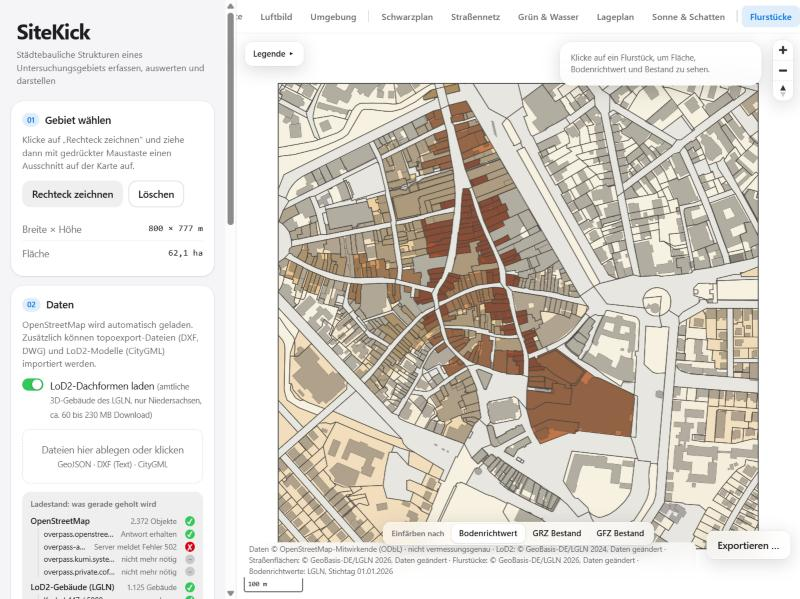
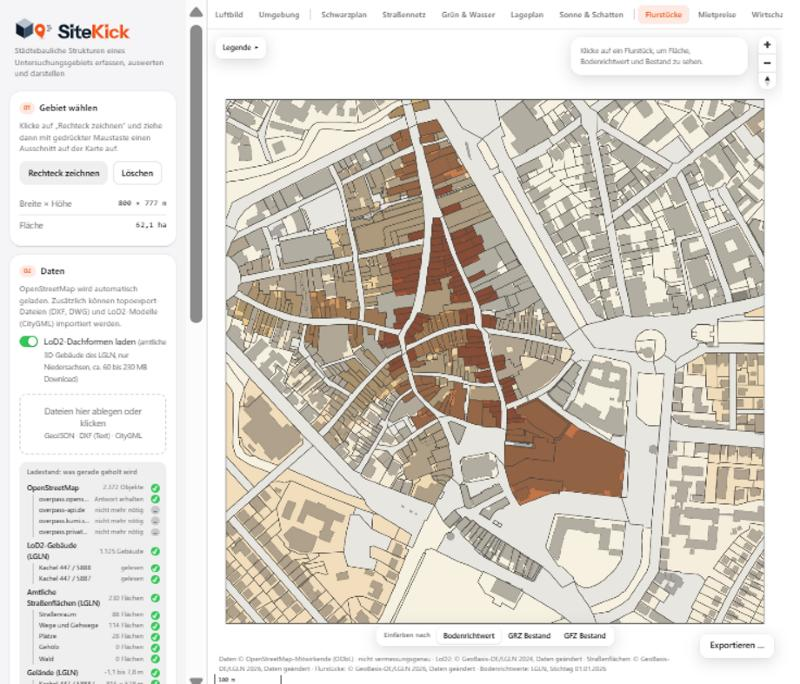
README fertig: Namen, Dozent*innen, Stand, KI-Nachweis; alle Screenshots neu
- Platzhalter in der README ausgefüllt (Projekt von, Dozent*innen, Stand, Hinweis zur
  Nutzung von KI als Tabelle)
- alle Screenshots der Oberfläche neu aufgenommen (Logo, orange Akzent, Hell und Dunkel)
- PLAN.md aktualisiert

diff --git a/PLAN.md b/PLAN.md
@@ -906,9 +906,10 @@ Rhythmus pro Feature: **neue Sitzung → ein Feature bauen → testen und speich
   **Grenzen:** Kreise sind Luftlinie; Denkmal nur aus OSM; DXF-Import ohne Blöcke, Texte, Schraffuren; GeoJSON/DXF-Import nicht zwischen Sitzungen gemerkt.
 - [x] **Oberfläche im Apple-Stil** (`style.css`, kleine Änderung in `app.js`): runde Ecken, Systemschrift, Karten in der Seitenleiste, milchig-durchsichtige Fenster über der Karte, Ein-Aus-Schalter statt Häkchen, Umschalter als Segmente, weiche Bewegungen (Fenster tauchen auf, Schnitt-Blatt kommt von unten, Export-Fenster blendet ein und aus, Druck-Rückmeldung sofort beim Drücken). Akzentfarbe jetzt iOS-Blau (Karte, Auswahl, Kreise). **Dunkelmodus** automatisch nach Systemeinstellung (nur Bedienflächen; Karte, Pläne, Zeichenblätter und Exporte bleiben hell). Berücksichtigt „weniger Bewegung“, „weniger Transparenz“, „mehr Kontrast“. **Getestet:** Hell und Dunkel, Reiter Karte, Lageplan, Sonne, Schnitt, Kennzahlen, Export-Fenster auf, zu. **Nicht getestet:** Handy, Firefox, Safari, Reiter 3D und Mietpreise in Dunkel.
 - [x] **Umbenannt in „SiteKick“** (früher Arbeitstitel „Ortsanalyse“): Seitentitel, Überschrift, Dateiköpfe, Export-Dateinamen (`SiteKick-…`), README, Startdatei und Server-Meldung. Gespeicherte Daten im Browser (Schlüssel `ortsanalyse-…`) und der Name des GitHub-Repositorys (`Mapping-Tool-Architektur`) bleiben unverändert, damit nichts verloren geht und die Live-Adresse gleich bleibt.
-- [x] **Logo eingebaut** (Logo-Paket „Seite an Seite“, Ordner `logo/`): Seitenleiste (Farbe im Hellmodus, Negativ im Dunkelmodus), Browser-Symbol, Handy-Symbol und `manifest.webmanifest` (als App installierbar), Vorschau beim Teilen (`og:`-Angaben), Plankopf aller Export-Blätter (schwarze Version rechts unten), Kennzahlen-PDF, 3D-Bild und README-Kopf. Regeln des Logo-Pakets (Schutzraum, Mindestgröße 120 px, nicht verzerren oder umfärben) stehen in `logo/LIESMICH.txt`. Die Akzentfarbe der Oberfläche ist jetzt das Signalrot-Orange des Logos (#F2541B, im Dunkelmodus #FF6A33; Variable `--accent` in `style.css`, ebenso Gebietsrahmen, Auswahl, Gehzeit-Kreise und Schnittlinie auf der Karte). **Offen:** Die README-Screenshots der Oberfläche zeigen noch die frühere Text-Überschrift und das alte Blau.
+- [x] **Logo eingebaut** (Logo-Paket „Seite an Seite“, Ordner `logo/`): Seitenleiste (Farbe im Hellmodus, Negativ im Dunkelmodus), Browser-Symbol, Handy-Symbol und `manifest.webmanifest` (als App installierbar), Vorschau beim Teilen (`og:`-Angaben), Plankopf aller Export-Blätter (schwarze Version rechts unten), Kennzahlen-PDF, 3D-Bild und README-Kopf. Regeln des Logo-Pakets (Schutzraum, Mindestgröße 120 px, nicht verzerren oder umfärben) stehen in `logo/LIESMICH.txt`. Die Akzentfarbe der Oberfläche ist jetzt das Signalrot-Orange des Logos (#F2541B, im Dunkelmodus #FF6A33; Variable `--accent` in `style.css`, ebenso Gebietsrahmen, Auswahl, Gehzeit-Kreise und Schnittlinie auf der Karte). Die README-Screenshots sind am 18.11.2026 neu aufgenommen (Logo, orange Akzent).
 - [x] **Sammel-Export** (letzter Reiter, `sammelexport.js`): mehrere Pläne und Formate (PDF, SVG, PNG, DXF Allplan/ArchiCAD, GeoJSON, CSV) wählen, gemeinsame Blatt-Einstellungen und **gemeinsamer Ausschnitt** (per Maus in einer Vorschau, gilt in Metern für alle Pläne), ein Klick lädt alles als **ZIP** (Ordner je Plan plus `Hinweise-und-Quellen.txt`, JSZip 3.10.1). Nicht bereite Reiter (Sonne, Schnitt, 3D) sind ausgegraut mit Knopf „Öffnen“. Dafür wurde `expSpeichern` in `expErzeuge` (Datei erzeugen) und Herunterladen getrennt, `expPassenderNenner` herausgezogen, `expZeichne` kennt `versatzMeter`. **PNG** gibt es jetzt auch mit 600 dpi (Obergrenze 120 Megapixel). **Vektor:** PDF und SVG enthalten Linien/Flächen/Schrift als Vektor; Pixelbilder bleiben Luftbild, Sonnen-Raster, 3D-Ansicht und die Schnittzeichnung im PDF (Versuch mit svg2pdf.js zeigte verzerrte Linienstärken und wurde verworfen). **Getestet** (Oldenburg Innenstadt): alle 13 Einträge × 7 Formate = 80 Dateien in einer ZIP (48,9 MB bei 150 dpi), Schnitt aus dem anderen Reiter (wechselt kurz in den Schnitt-Reiter), Fortschrittsanzeige. **Nicht getestet:** 600 dpi bei A1/A0, Ausschnitt-Ziehen mit der Maus im Sammel-Reiter, Handy, die DXF in Allplan/ArchiCAD.
 - [x] **Repository auf GitHub in „SiteKick“ umbenannt** (Nutzerin/Nutzer): Adresse jetzt `https://github.com/Jade-HS-Vibecoding-WPK/SiteKick`, Live-Demo `https://jade-hs-vibecoding-wpk.github.io/SiteKick/` (die alte Adresse mit `Mapping-Tool-Architektur` gibt 404). README und Seitenvorschau (`og:image`) zeigen auf die neue Adresse.
-- [ ] **Noch offen:** Poster, README-Platzhalter ausfüllen, Test der DXF-Dateien in Allplan/ArchiCAD (macht die Nutzerin / der Nutzer), Abstimmung der zwei Versionen (`entwicklung`).
+- [x] **README abgeschlossen** (18.11.2026): Namen (Jorit Simon, Alexander Ubben), Dozent*innen (Gregor Grunwald, Radostina Radulova-Stahmer), Stand und KI-Nachweis eingetragen; alle Screenshots neu aufgenommen.
+- [ ] **Noch offen:** Poster, Test der DXF-Dateien in Allplan/ArchiCAD (macht die Nutzerin / der Nutzer), Abstimmung der zwei Versionen (`entwicklung`).
 - [ ] Hinweis: Die Hintergrundkarte kommt von den OSM-Kartenservern (tile.openstreetmap.org). Für ein
   Studienprojekt ist das in Ordnung. Bei vielen Nutzern müsste man einen anderen Kartendienst nehmen.

diff --git a/README.md b/README.md
@@ -31,9 +31,9 @@ als DXF für Allplan 2024 und ArchiCAD 29** exportieren, einzeln oder **viele au
 
 | | |
 |---|---|
-| **Projekt von** | _[Namen der Gruppe eintragen]_ |
-| **Kurs / Dozent\*in** | _[Kurs und Dozent\*in eintragen]_ |
-| **Stand** | _[Datum der Abgabe eintragen]_ |
+| **Projekt von** | Jorit Simon und Alexander Ubben |
+| **Dozent\*innen** | Gregor Grunwald und Radostina Radulova-Stahmer |
+| **Stand** | 18.11.2026 |
 | **Lizenz** | MIT License (siehe [`LICENSE`](LICENSE)) |
 
 ---
@@ -378,10 +378,17 @@ Koordinaten amtlicher Daten: ETRS89 / UTM 32 (EPSG:25832).
 ## Hinweis zur Nutzung von KI
 
 Dieses Projekt wurde **mit Unterstützung von KI** entwickelt. Der Programmcode wurde mit dem Coding-Agenten **Claude Code** (Anthropic) geschrieben,
-im Dialog mit den Studierenden: Die Studierenden haben Idee, Funktionsumfang, Gestaltung und Prüfung der Ergebnisse verantwortet, der Agent hat auf Anfrage
-den Code erzeugt und getestet. Die Arbeitsregeln für den Agenten stehen in [`CLAUDE.md`](CLAUDE.md), der Verlauf in [`PLAN.md`](PLAN.md).
+im Dialog mit den Studierenden. Die Arbeitsregeln für den Agenten stehen in [`CLAUDE.md`](CLAUDE.md), der Verlauf in [`PLAN.md`](PLAN.md).
 
-_[Hier die Angaben ergänzen, die die Hochschule für den Nachweis der KI-Nutzung verlangt, z. B. Version/Modell, Zeitraum, Anteil, Prüfung der Ergebnisse.]_
+| | |
+|---|---|
+| **Werkzeug** | Claude Code von Anthropic in der Claude-Desktop-App, mit Claude-Modellen von Anthropic (zuletzt Claude Sonnet 5.5) |
+| **Zeitraum** | 16. bis 18.11.2026 (siehe Commit-Verlauf im Repository) |
+| **Von den Studierenden** | Idee und Ziel, Auswahl und Reihenfolge der Funktionen, Gestaltungsentscheidungen (Stil, Farben, Logo), Fragen und Rückmeldungen im Dialog, Tests im Browser, Prüfung der Ergebnisse, Veröffentlichung auf GitHub |
+| **Von der KI** | Programmcode (HTML, CSS, JavaScript), Texte in README, `PLAN.md` und `CLAUDE.md`, automatische Testläufe, Screenshots und Exportbeispiele |
+| **Prüfung** | Rechenwerte mit Quelle belegt und nachgerechnet, DXF-Dateien mit der Bibliothek ezdxf geprüft, Ergebnisse an den Daten von Oldenburg Innenstadt im Browser getestet. Nicht geprüft: DXF in Allplan und ArchiCAD, Smartphone, andere Browser |
+
+Der Code ist von der KI geschrieben; Verantwortung für Inhalt und Ergebnisse tragen die Studierenden.
 
 Die Rechenwerte der Wirtschaftlichkeit sind mit Quellen belegt, die Rechnungen wurden von Hand nachgerechnet. Trotzdem gilt: **Alle Ergebnisse sind
 Überschläge und müssen vor jeder Verwendung selbst geprüft werden.**
@@ -396,8 +403,7 @@ Alle geplanten Funktionen sind umgesetzt. Offen sind Tests, die nur mit den Prog
 - der CityGML-Import mit einer echten Datei, Smartphone und andere Browser (Firefox, Safari), die Oberfläche im Dunkelmodus in den Reitern 3D-Modell und Mietpreise,
 - der Sammel-Export mit 600 dpi auf großen Blättern.
 
-Zum Abgeben noch auszufüllen: **Namen, Kurs, Datum und der KI-Nachweis** oben und im Abschnitt „Hinweis zur Nutzung von KI“ in dieser README. Die Screenshots der Oberfläche in dieser README
-zeigen teils noch die frühere Text-Überschrift und das alte Blau; die Pläne und Exportblätter sind aktuell.
+Alle Screenshots und Exportblätter in dieser README zeigen den Stand vom 18.11.2026 (Testgebiet Oldenburg Innenstadt, Hell- und Dunkelmodus).
 
 ---
 
